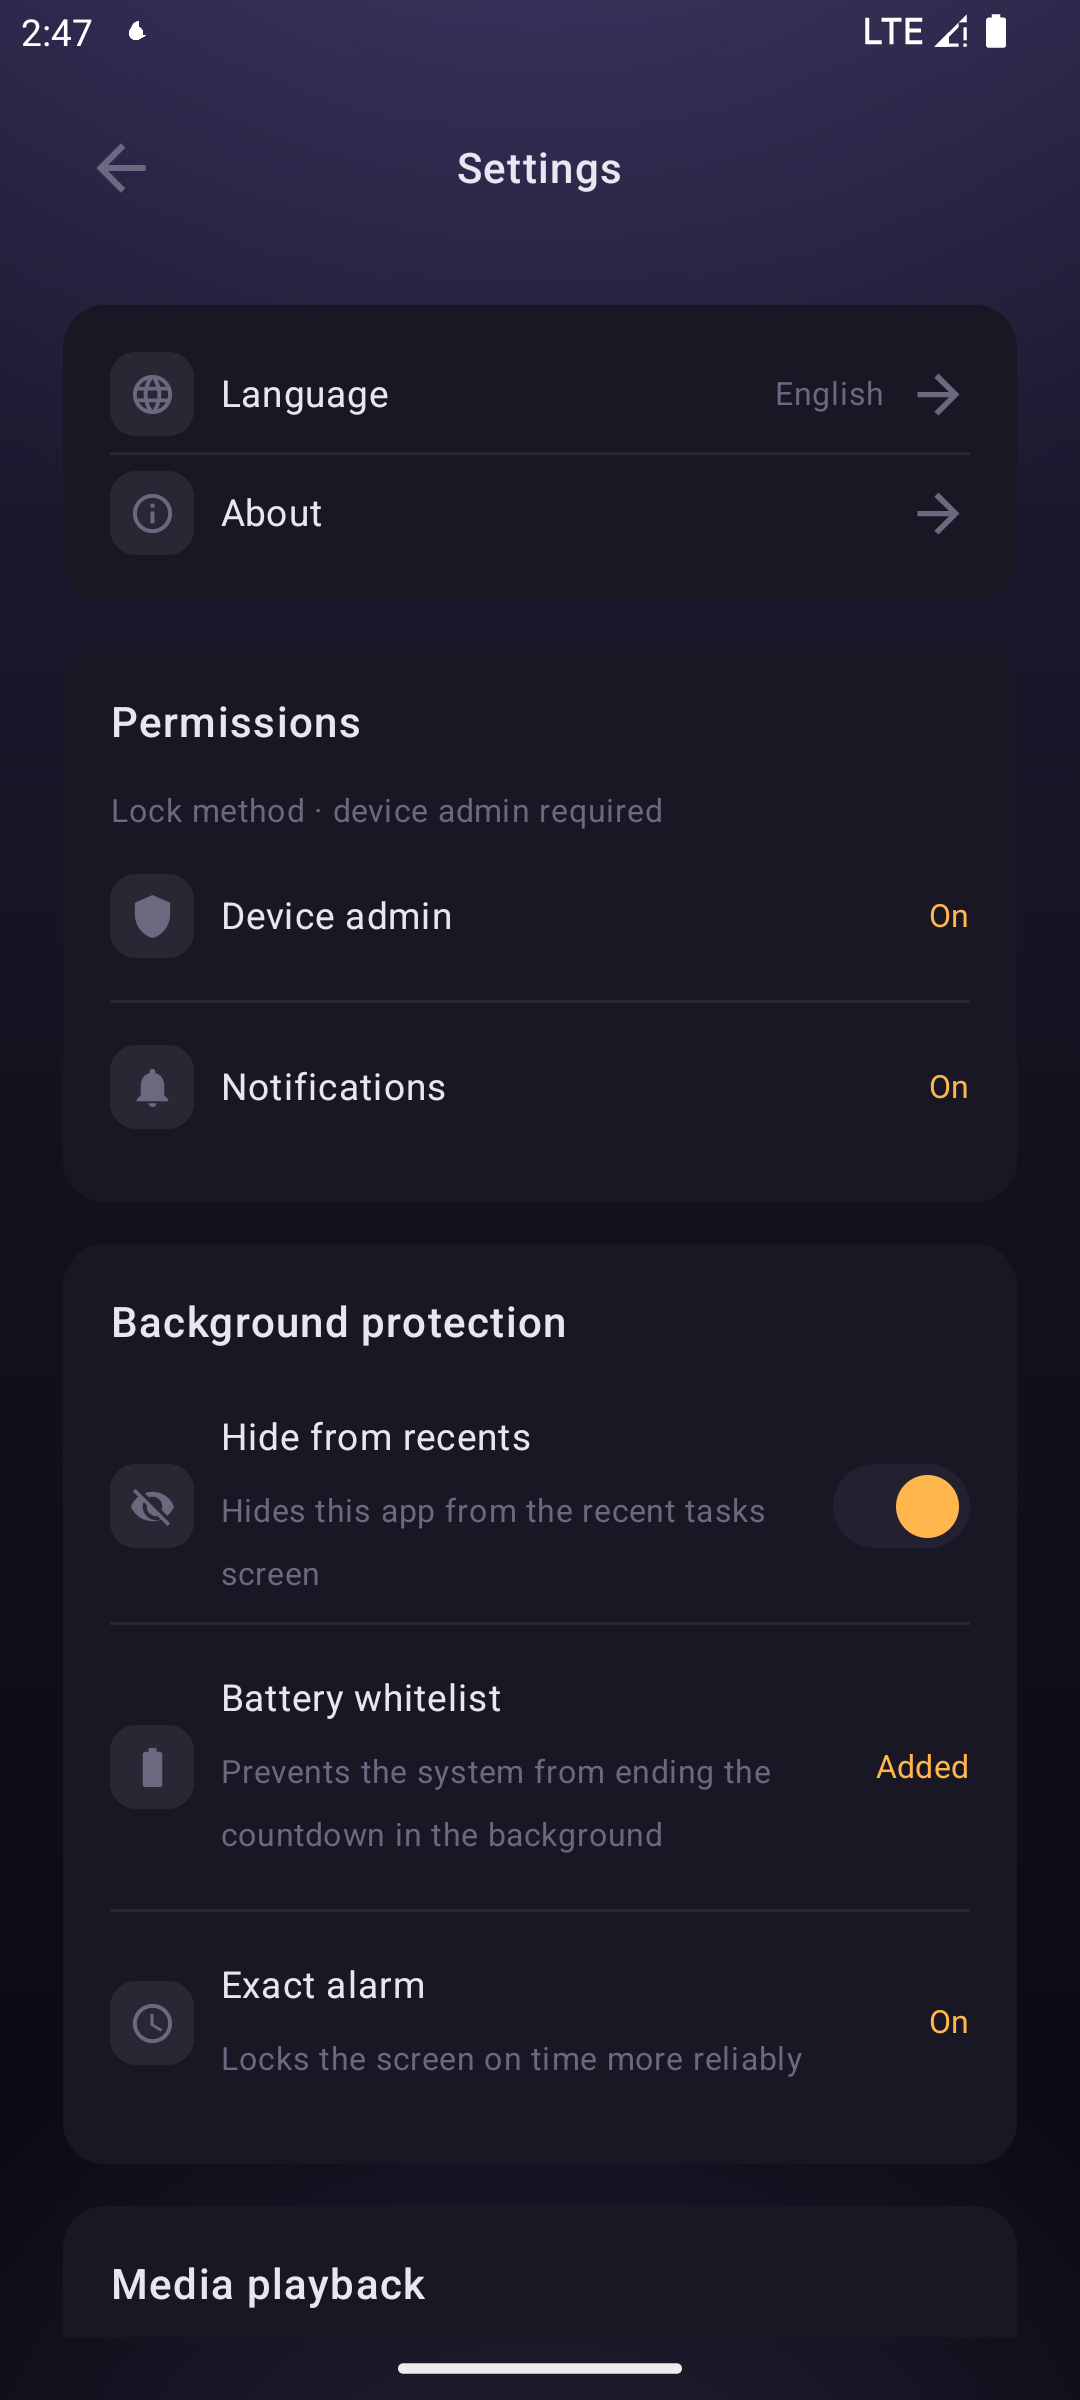
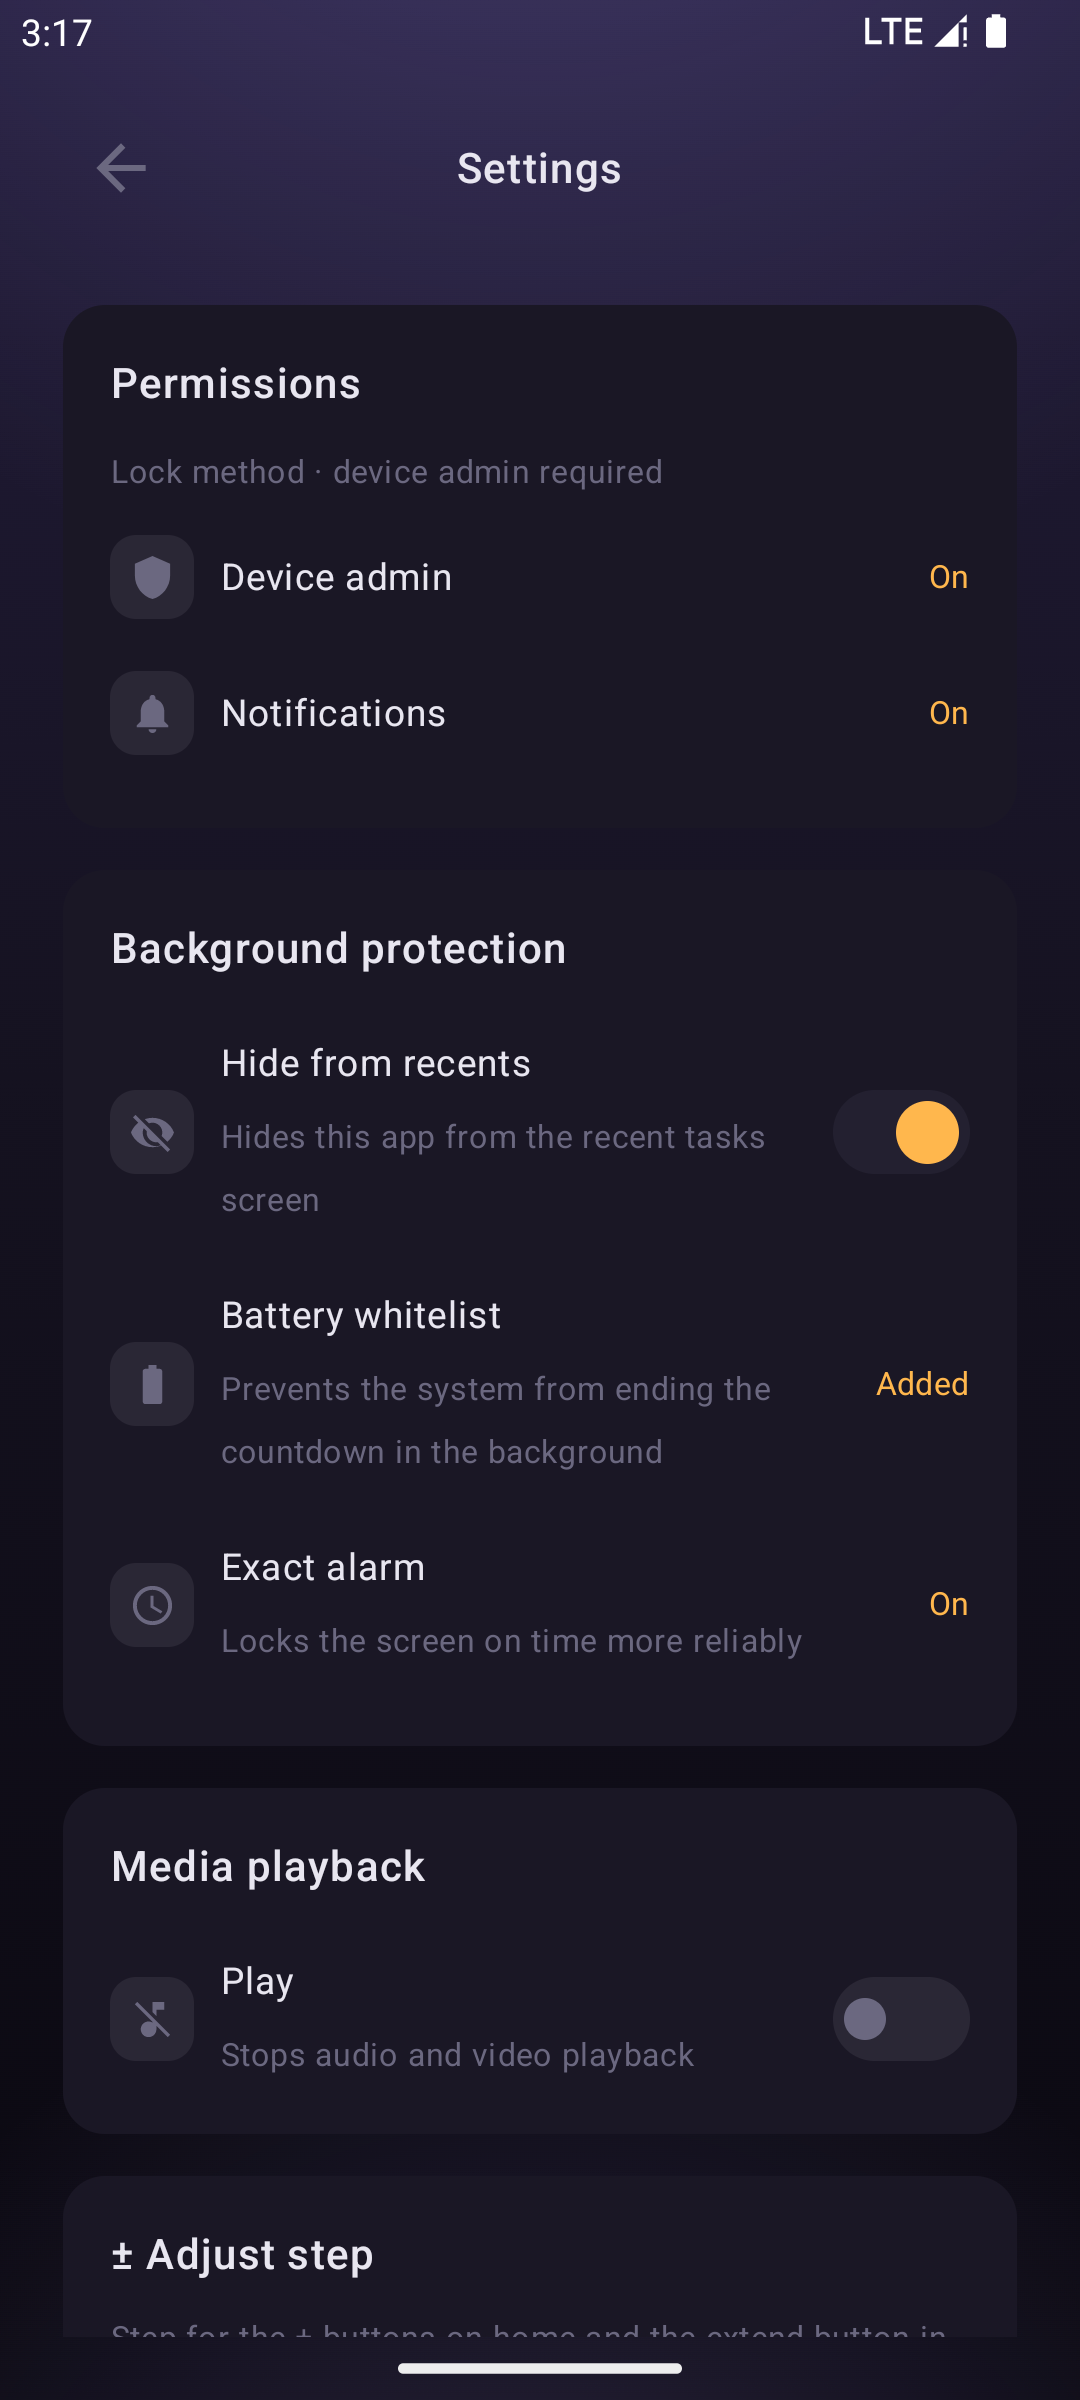
feat: rework settings with General card, 20dp row rhythm, no dividers
- Language and About move to a new General card at the bottom of settings; Permissions now leads the page.
- In-card rows use uniform vertical=10dp padding: row pairs share one 20dp rhythm across every card.
- Drop all five in-card dividers (settings x4, about x1); icon chips and text separate rows without hairlines.
- Reshoot settings.png for the new layout.

diff --git a/app/src/main/java/cn/imlete/apps/hush/ui/SettingsScreen.kt b/app/src/main/java/cn/imlete/apps/hush/ui/SettingsScreen.kt
@@ -92,51 +92,6 @@ fun SettingsScreen(
                 Spacer(Modifier.height(28.dp))
 
                 SettingsCard {
-                    Row(
-                        modifier = Modifier.fillMaxWidth().clickable(onClick = onOpenLanguage),
-                        verticalAlignment = Alignment.CenterVertically,
-                    ) {
-                        IconChip(R.drawable.ic_language)
-                        Spacer(Modifier.width(10.dp))
-                        Text(
-                            stringResource(R.string.settings_language),
-                            color = OnInk,
-                            fontSize = BodySize,
-                            modifier = Modifier.weight(1f),
-                        )
-                        Text(
-                            text = stringResource(if (appLocale == AppLocale.TAG_ZH) R.string.language_zh else R.string.language_en),
-                            color = Muted,
-                            fontSize = SmallSize,
-                        )
-                        Spacer(Modifier.width(8.dp))
-                        Icon(
-                            painter = painterResource(R.drawable.ic_arrow_forward),
-                            contentDescription = stringResource(R.string.desc_enter),
-                            tint = Muted,
-                            modifier = Modifier.size(24.dp),
-                        )
-                    }
-                    SettingsDivider()
-                    Row(
-                        modifier = Modifier.fillMaxWidth().clickable(onClick = onOpenAbout),
-                        verticalAlignment = Alignment.CenterVertically,
-                    ) {
-                        IconChip(R.drawable.ic_info)
-                        Spacer(Modifier.width(10.dp))
-                        Text(stringResource(R.string.label_about), color = OnInk, fontSize = BodySize, modifier = Modifier.weight(1f))
-                        Icon(
-                            painter = painterResource(R.drawable.ic_arrow_forward),
-                            contentDescription = stringResource(R.string.desc_enter),
-                            tint = Muted,
-                            modifier = Modifier.size(24.dp),
-                        )
-                    }
-                }
-
-                Spacer(Modifier.height(16.dp))
-
-                SettingsCard {
                     CardTitle(stringResource(R.string.settings_permissions))
                     CardGroupLabel(stringResource(R.string.settings_permissions_hint))
                     CapabilityRow(
@@ -145,7 +100,6 @@ fun SettingsScreen(
                         icon = R.drawable.ic_shield,
                         onClick = onOpenDeviceAdmin,
                     )
-                    SettingsDivider()
                     CapabilityRow(
                         label = stringResource(R.string.capability_notifications),
                         granted = notifications,
@@ -158,7 +112,7 @@ fun SettingsScreen(
                 SettingsCard {
                     CardTitle(stringResource(R.string.settings_background))
                     Row(
-                        modifier = Modifier.fillMaxWidth().padding(top = 10.dp),
+                        modifier = Modifier.fillMaxWidth().padding(vertical = 10.dp),
                         verticalAlignment = Alignment.CenterVertically,
                     ) {
                         IconChip(R.drawable.ic_visibility_off)
@@ -176,7 +130,6 @@ fun SettingsScreen(
                         HushSwitch(checked = hideFromRecents, onClick = { onToggleHideRecents(!hideFromRecents) })
                     }
 
-                    SettingsDivider()
                     ProtectionRow(
                         icon = R.drawable.ic_battery,
                         label = stringResource(R.string.setting_battery),
@@ -188,7 +141,6 @@ fun SettingsScreen(
                     )
 
                     if (Build.VERSION.SDK_INT >= Build.VERSION_CODES.S) {
-                        SettingsDivider()
                         ProtectionRow(
                             icon = R.drawable.ic_schedule,
                             label = stringResource(R.string.setting_exact),
@@ -268,6 +220,51 @@ fun SettingsScreen(
                     )
                 }
 
+                Spacer(Modifier.height(16.dp))
+
+                SettingsCard {
+                    CardTitle(stringResource(R.string.settings_general_title))
+                    Row(
+                        modifier = Modifier.fillMaxWidth().clickable(onClick = onOpenLanguage).padding(vertical = 10.dp),
+                        verticalAlignment = Alignment.CenterVertically,
+                    ) {
+                        IconChip(R.drawable.ic_language)
+                        Spacer(Modifier.width(10.dp))
+                        Text(
+                            stringResource(R.string.settings_language),
+                            color = OnInk,
+                            fontSize = BodySize,
+                            modifier = Modifier.weight(1f),
+                        )
+                        Text(
+                            text = stringResource(if (appLocale == AppLocale.TAG_ZH) R.string.language_zh else R.string.language_en),
+                            color = Muted,
+                            fontSize = SmallSize,
+                        )
+                        Spacer(Modifier.width(8.dp))
+                        Icon(
+                            painter = painterResource(R.drawable.ic_arrow_forward),
+                            contentDescription = stringResource(R.string.desc_enter),
+                            tint = Muted,
+                            modifier = Modifier.size(24.dp),
+                        )
+                    }
+                    Row(
+                        modifier = Modifier.fillMaxWidth().clickable(onClick = onOpenAbout).padding(vertical = 10.dp),
+                        verticalAlignment = Alignment.CenterVertically,
+                    ) {
+                        IconChip(R.drawable.ic_info)
+                        Spacer(Modifier.width(10.dp))
+                        Text(stringResource(R.string.label_about), color = OnInk, fontSize = BodySize, modifier = Modifier.weight(1f))
+                        Icon(
+                            painter = painterResource(R.drawable.ic_arrow_forward),
+                            contentDescription = stringResource(R.string.desc_enter),
+                            tint = Muted,
+                            modifier = Modifier.size(24.dp),
+                        )
+                    }
+                }
+
                 Spacer(Modifier.height(32.dp))
             }
         }
@@ -326,18 +323,6 @@ private fun CardGroupLabel(text: String) {
         color = Muted,
         fontSize = SmallSize,
         modifier = Modifier.padding(bottom = 2.dp),
-    )
-}
-
-/** Thin in-card divider (1dp Track color). */
-@Composable
-private fun SettingsDivider() {
-    Box(
-        Modifier
-            .fillMaxWidth()
-            .padding(vertical = 6.dp)
-            .height(1.dp)
-            .background(Track),
     )
 }
 

diff --git a/app/src/main/java/cn/imlete/apps/hush/ui/AboutScreen.kt b/app/src/main/java/cn/imlete/apps/hush/ui/AboutScreen.kt
@@ -45,7 +45,6 @@ import cn.imlete.apps.hush.ui.theme.OnInk
 import cn.imlete.apps.hush.ui.theme.SmallSize
 import cn.imlete.apps.hush.ui.theme.Surface
 import cn.imlete.apps.hush.ui.theme.TitleSize
-import cn.imlete.apps.hush.ui.theme.Track
 import cn.imlete.apps.hush.ui.theme.nightWash
 
 /** Source repository URL: tapping the "Source" row opens the browser (the URL text is not shown, spec 2026-10-05-about-page revision). */
@@ -110,7 +109,6 @@ fun AboutScreen(onBack: () -> Unit) {
 
                 AboutCard {
                     InfoRow(label = stringResource(R.string.about_author), leadingIcon = R.drawable.ic_person, value = "Lete114")
-                    AboutDivider()
                     InfoRow(
                         label = stringResource(R.string.about_source),
                         leadingIcon = R.drawable.ic_code,
@@ -197,18 +195,6 @@ private fun InfoRow(
             )
         }
     }
-}
-
-/** Thin in-card divider (1dp Track color), same spec as the settings page's SettingsDivider. */
-@Composable
-private fun AboutDivider() {
-    Box(
-        Modifier
-            .fillMaxWidth()
-            .padding(vertical = 6.dp)
-            .height(1.dp)
-            .background(Track),
-    )
 }
 
 @Preview(showBackground = true, backgroundColor = 0xFF12101A, widthDp = 417, heightDp = 929)
